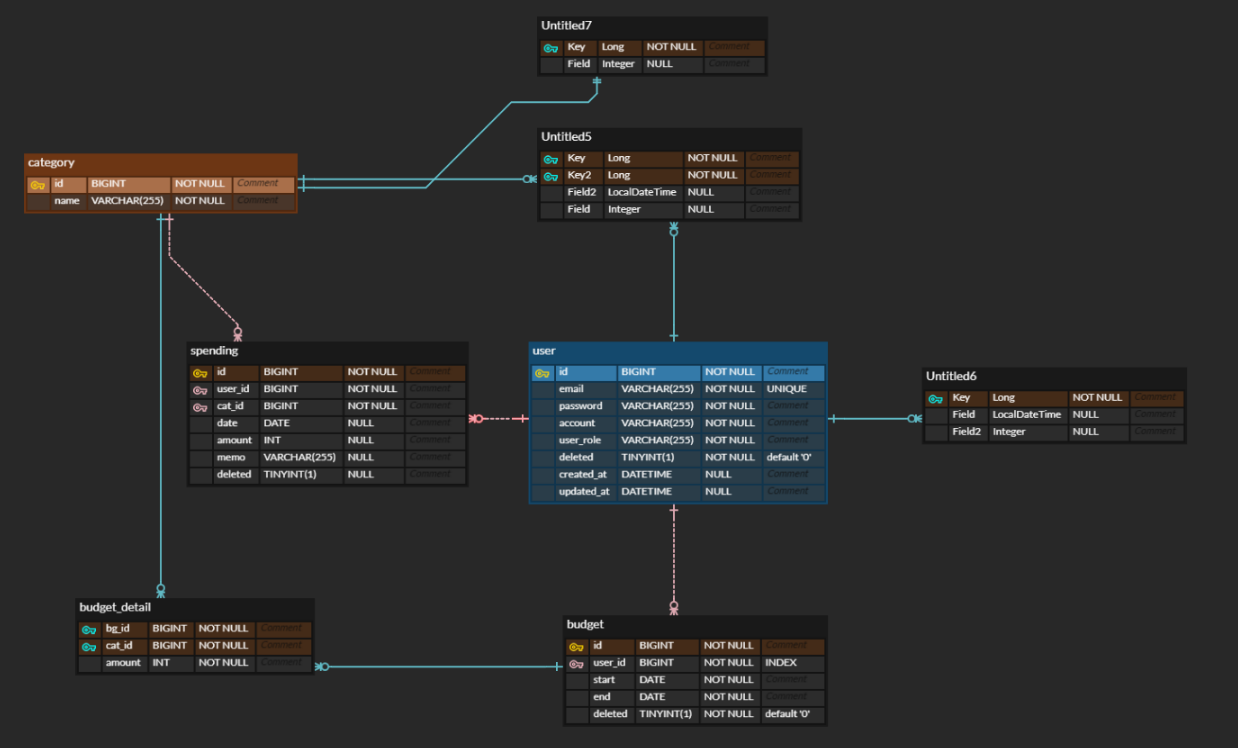
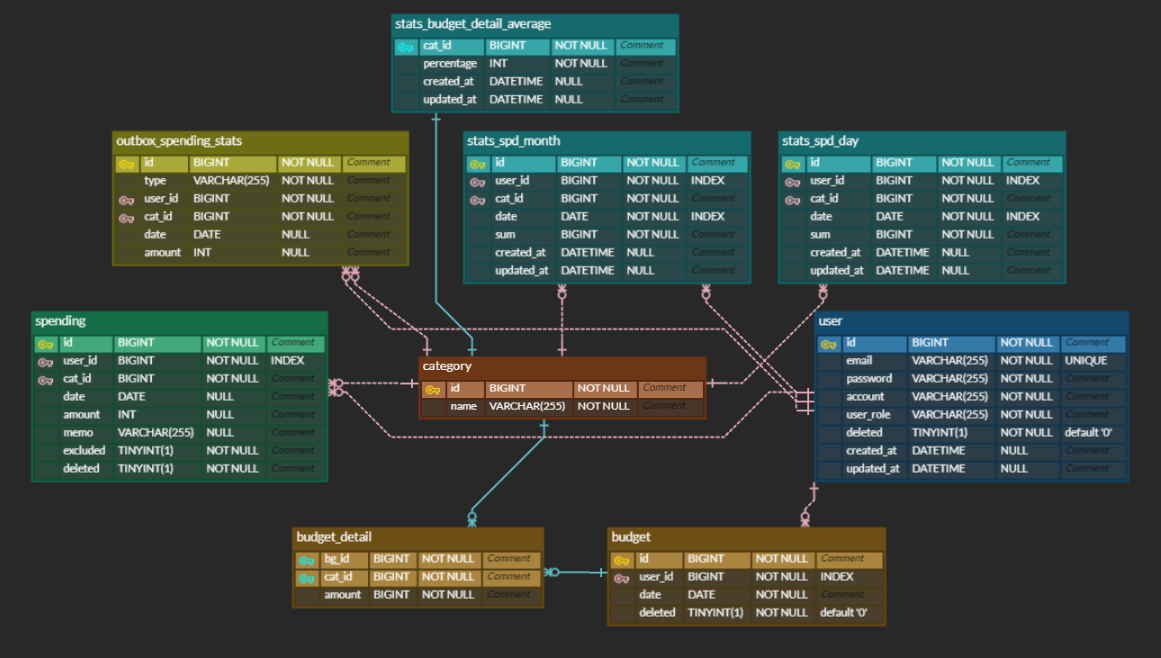
add: readme

diff --git a/server/src/main/java/wanted/n/budgetmanager/server/controller/StatsController.java b/server/src/main/java/wanted/n/budgetmanager/server/controller/StatsController.java
@@ -67,7 +67,7 @@ public class StatsController {
     }
 
     @GetMapping("budgetdetail/average")
-    @ApiOperation(value = "예산 평균 가져오기", notes = "모든 사용자의 예산 평균 퍼센테이지를 가져옵니다.")
+    @ApiOperation(value = "모든 사용자 예산 평균 가져오기", notes = "모든 사용자의 예산 평균 퍼센테이지를 가져옵니다.")
     public ResponseEntity<StatsBudgetDetailAverageResponseDTO> getStatsBudgetDetailAverage(
             @RequestHeader(AUTHORIZATION) String token) {
 

diff --git a/README.md b/README.md
@@ -18,7 +18,7 @@
 ## 사용기술
 
 #### 개발환경
-<img src="https://img.shields.io/badge/java-007396?&logo=java&logoColor=white"> <img src="https://img.shields.io/badge/spring-6DB33F?&logo=spring&logoColor=white"> <img src="https://img.shields.io/badge/Spring boot-6DB33F?&logo=Spring boot&logoColor=white"> <img src="https://img.shields.io/badge/gradle-02303A?&logo=gradle&logoColor=white">
+<img src="https://img.shields.io/badge/java-007396?&logo=java&logoColor=white"> <img src="https://img.shields.io/badge/Spring boot-6DB33F?&logo=Spring boot&logoColor=white"> <img src="https://img.shields.io/badge/gradle-02303A?&logo=gradle&logoColor=white">
 <br>
 <img src="https://img.shields.io/badge/MariaDB-003545?&logo=mariaDB&logoColor=white"> <img src="https://img.shields.io/badge/redis-DC382D?&logo=redis&logoColor=white"> <img src="https://img.shields.io/badge/Spring JPA-6DB33F?&logo=Spring JPA&logoColor=white"> <img src="https://img.shields.io/badge/querydsl-2599ED?&logo=querydsl&logoColor=white">
 <br>
@@ -35,25 +35,29 @@
 [![Swagger](https://img.shields.io/badge/swagger_문서로_확인하기_(클릭!)-85EA2D?&logo=swagger&logoColor=white)](http://52.79.93.98:8080/swagger-ui/index.html#/)
 
 
-| API Type           | Http Method | URL                               | Description     |
-|--------------------|-------------|-----------------------------------|-----------------|
-| **Auth API**       | POST        | `/api/v1/auth/token/access`       | 엑세스토큰 재발급       | 
-| **User API**       | POST        | `/api/v1/users/sign-up`           | 회원가입            |
-| **User API**       | POST        | `/api/v1/users/sign-in`           | 로그인             |
-| **User API**       | POST        | `/api/v1/users/sign-out`          | 로그아웃            |
-| **Category API**   | GET         | `/api/v1/categorys`               | 카테고리 리스트        |
-| **Budget API**     | GET         | `/api/v1/budgets`                 | 사용자 예산 리스트      |
-| **Budget API**     | GET         | `/api/v1/budgets/{bgId}`          | 사용자 예산 상세정보     |
-| **Budget API**     | POST        | `/api/v1/budgets`                 | 사용자 예산 등록       |
-| **Budget API**     | DELETE      | `/api/v1/budgets/{bgId}`          | 사용자 예산 삭제       |
-| **Budget API**     | PATCH       | `/api/v1/budgets/{bgId}`          | 사용자 예산 업데이트     |
-| **Budget API**     | PUT         | `/api/v1/budgets/detail/{bgId}`   | 사용자 예산 디테일 업데이트 |
-| **Spending API**   | GET         | `/api/v1/spendings `              | 사용자 지출 목록 가져오기  |
-| **Spending API**   | POST        | `/api/v1/spendings `              | 사용자 지출 기록 생성    |
-| **Spending API**   | GET         | `/api/v1/spendings/{id} `         | 사용자 지출 기록 가져오기  |
-| **Spending API**   | DELETE      | `/api/v1/spendings/{id} `         | 사용자 지출 기록 삭제    |
-| **Statistics API** | GET         | `/api/v1/stats/{yyyy}/{MM}/{dd} ` | 사용자 하루 통계 가져오기  |
-| **Statistics API** | PUT         | `/api/v1/stats/{yyyy}/{MM}/{dd} ` | 사용자 하루 통계 업데이트  |
+| API Type           | Http Method | URL                                     | Description          |
+|--------------------|-------------|-----------------------------------------|----------------------|
+| **Auth API**       | POST        | `/api/v1/auth/token/access`             | 엑세스토큰 재발급            | 
+| **User API**       | POST        | `/api/v1/users/sign-up`                 | 회원가입                 |
+| **User API**       | POST        | `/api/v1/users/sign-in`                 | 로그인                  |
+| **User API**       | POST        | `/api/v1/users/sign-out`                | 로그아웃                 |
+| **Category API**   | GET         | `/api/v1/categorys`                     | 카테고리 리스트 가져오기        |
+| **Budget API**     | GET         | `/api/v1/budgets`                       | 사용자 예산 리스트           |
+| **Budget API**     | GET         | `/api/v1/budgets/{bgId}`                | 사용자 예산 상세정보          |
+| **Budget API**     | POST        | `/api/v1/budgets`                       | 사용자 예산 등록            |
+| **Budget API**     | DELETE      | `/api/v1/budgets/{bgId}`                | 사용자 예산 삭제            |
+| **Budget API**     | PUT         | `/api/v1/budgets/detail/{bgId}`         | 사용자 예산 디테일 업데이트      |
+| **Spending API**   | GET         | `/api/v1/spendings `                    | 사용자 지출 목록 가져오기       |
+| **Spending API**   | POST        | `/api/v1/spendings `                    | 사용자 지출 기록 생성         |
+| **Spending API**   | GET         | `/api/v1/spendings/{id} `               | 사용자 지출 기록 가져오기       |
+| **Spending API**   | DELETE      | `/api/v1/spendings/{id} `               | 사용자 지출 기록 삭제         |
+| **Spending API**   | PATCH       | `/api/v1/spendings/{id} `               | 사용자 지출 기록 업데이트       |
+| **Consulting API** | GET         | `/api/v1/consultings/recommend/today" ` | 오늘 지출 추천 가져오기        |
+| **Consulting API** | GET         | `/api/v1/consultings/notice/today" `    | 오늘 지출 정보 가져오기        |
+| **Statistics API** | GET         | `/api/v1/stats/rates/lastMonth `        | 사용자 지난 달 대비 소비율 가져오기 |
+| **Statistics API** | GET         | `/api/v1/stats/rates/lastWeek `         | 사용자 지난 주 대비 소비율 가져오기 |
+| **Statistics API** | GET         | `/api/v1/stats/rates/otherUsers-Me `    | 사용자 다른 유저 대비 소비율 가져오기 |
+| **Statistics API** | GET         | `/api/v1/stats/budgetdetail/average `   | 모든 사용자 예산 평균 가져오기    |
 
 ## 구현기능
 
